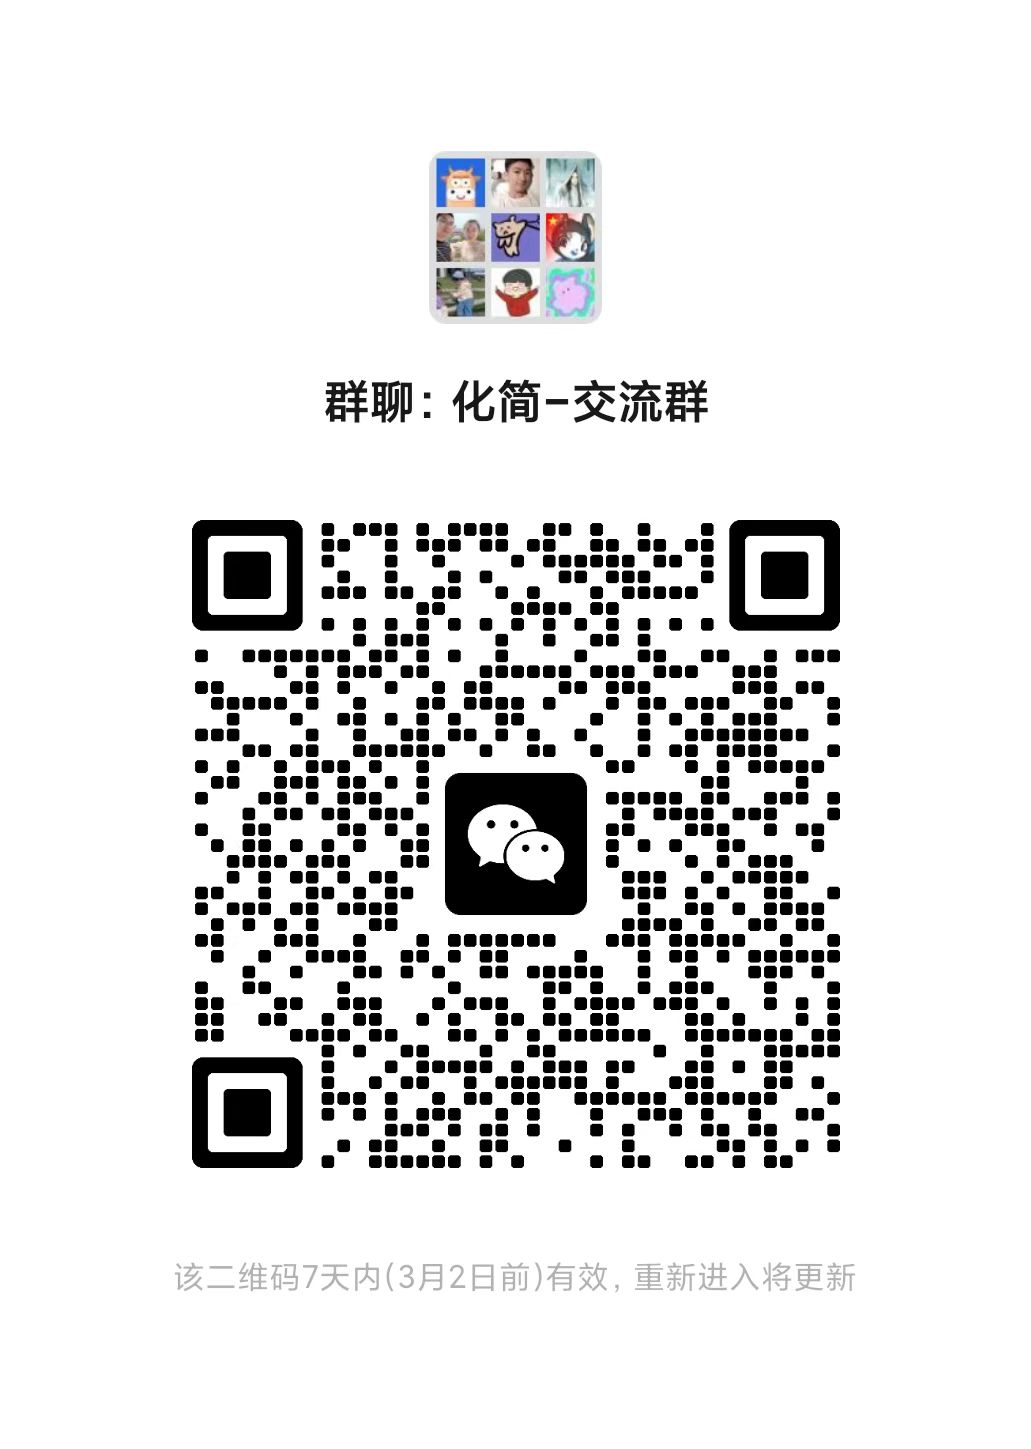
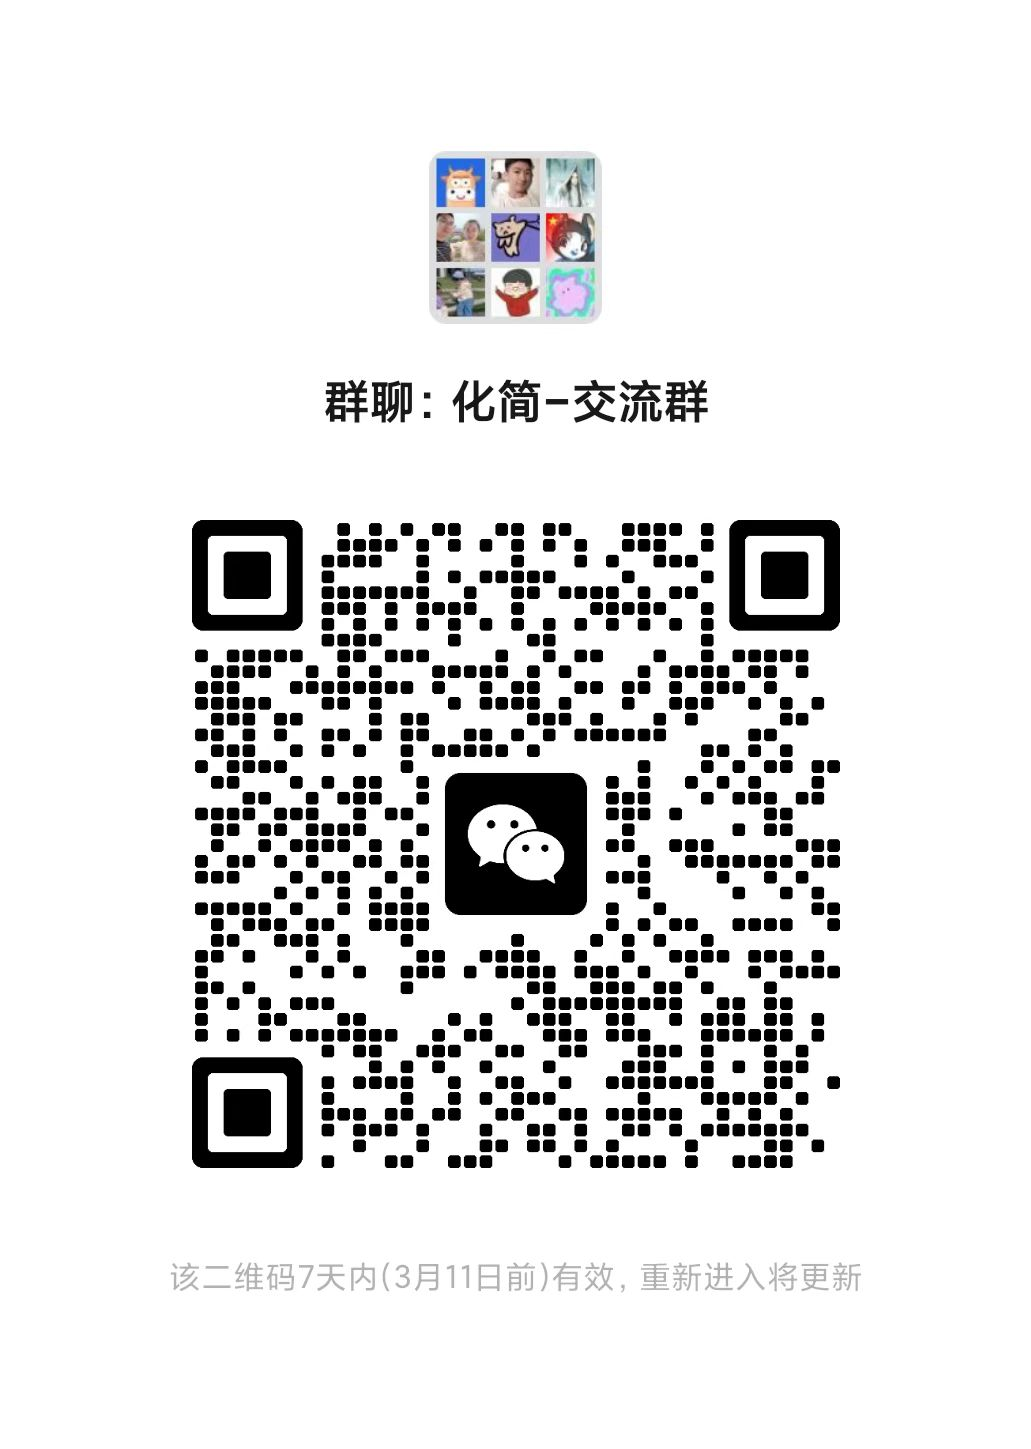
docs(image): 更新微信群

Changed region(s): [[0.1862, 0.3416, 0.838, 0.8075], [0.1552, 0.8696, 0.838, 0.9006]]

diff --git a/src/views/index/components/CallMe.vue b/src/views/index/components/CallMe.vue
@@ -12,7 +12,7 @@
           <h1>进入微信群</h1>
           <p>进入交流群，迅速解答疑问！</p>
         </div>
-        <div class="vx-img">
+        <div v-viewer class="vx-img">
           <img class="bgc-img" src="@/assets/images/vx-qun.jpg" alt="" />
         </div>
       </div>
